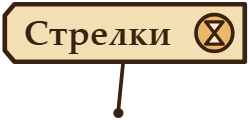
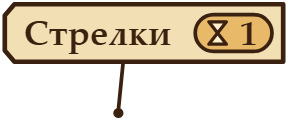
Show hiring on the blueprint as a sepia sketch with the term inside the tag

Changed region(s): [[0.084, 0.0, 1.0, 0.55], [0.392, 0.525, 0.504, 1.0], [0.0, 0.0, 0.084, 0.55]]

diff --git a/web/js/panel.js b/web/js/panel.js
@@ -155,12 +155,11 @@ export function makePanel(root, M, data, art, blueprint, flags, cards = {}) {
             crew.glow.phases.forEach((ph, i) => ph.SetVisible(crew.phase === i + 1));
         }, art.crew_area.step_ms);
         crew.empty = lay(`crew_${ca.group}_empty`);
-        // a hire on its way: the red hatching of what is being built over the places, the tag with an hourglass, the turns in red beside its leader
-        crew.build = lay(`crew_${ca.group}_build`);
+        // a hire on its way, in the drawing's own means: the ordered kind sketched at the places (sepia over a light cut-out, not inked yet) when
+        // nobody stands there, and the tag with an hourglass and the turns left in its ring
+        crew.sketches = {};
+        for (const key of Object.keys(group.options)) if (art.places[`crew_${ca.group}_${key}_sketch`]) crew.sketches[key] = lay(`crew_${ca.group}_${key}_sketch`);
         crew.tags = {plus: lay(`crew_${ca.group}_tag_plus`), swap: lay(`crew_${ca.group}_tag_swap`), wait: lay(`crew_${ca.group}_tag_wait`)};
-        const tagAt = place(`crew_${ca.group}_tag_plus`);
-        crew.turns = text(area, 'crew_turns', 'text_ink_big', (tagAt[0] + 84) * scale - ax, (tagAt[1] + 40) * scale - ay, 150, 26, '');
-        crew.turns.SetPassive();
         // what shows under the mouse, in one holder: the frames and the lighter tag of the state
         crew.hover = make(area, 'hover', 'hover_holder');
         size(crew.hover, cbox[2] * scale, cbox[3] * scale);
@@ -804,8 +803,8 @@ function refresh(view, M) {
     }
     if (view.crewArea) {
         // The place is there from the moment its building stands; with the building gone the place and its choice go too. What stands is in ink; an
-        // order waits for the turn: the red hatching of a thing being built over the places, the ordered kind pale under it when nobody stands there
-        // (a crew that stands stays in ink until the turn replaces it), the tag with an hourglass and the turns beside it.
+        // order waits for the turn: the ordered kind as a sketch at the places when nobody stands there (a crew that stands stays in ink until the
+        // turn replaces it, then only the tag tells of the order), the tag with an hourglass and the turns left.
         const c = view.crewArea, shown = M.status(c.building).state === 'built', now = M.crew(c.group), order = M.crew_order(c.group);
         const options = M.crew_options(c.group), standing = options.find(o => o.key === now), ordered = options.find(o => o.key === order);
         const nobody = !standing || standing.empty, coming = ordered && !ordered.empty && nobody ? order : null;
@@ -813,15 +812,10 @@ function refresh(view, M) {
         if (!shown) c.open = false;
         c.pick.SetVisible(shown && c.open);
         c.empty.SetVisible(nobody && !coming);
-        for (const [key, layer] of Object.entries(c.layers)) {
-            layer.SetVisible(key === (nobody ? coming : now));
-            layer.SetImageColour(255, 255, 255, key === coming ? 0xA0 : 255);
-        }
-        c.build.SetVisible(!!ordered);
+        for (const [key, layer] of Object.entries(c.layers)) layer.SetVisible(!nobody && key === now);
+        for (const [key, layer] of Object.entries(c.sketches)) layer.SetVisible(key === coming);
         const tag = ordered ? 'wait' : nobody ? 'plus' : 'swap';
         for (const k of Object.keys(c.tags)) { c.tags[k].SetVisible(k === tag); c.hoverTags[k].SetVisible(k === tag); }
-        c.turns.SetVisible(!!ordered);
-        c.turns.SetStateText(ordered ? 'найм: 1 ход' : '');
         c.glow.SetVisible(M.crew_hint());
         c.area.SetTooltipText(c.open ? '' : ordered ? (ordered.empty ? 'Стрелки сойдут с бортов в начале хода' : `${ordered.name}: в найме, встанут к бортам в начале хода`)
             : nobody ? '' : `${standing.name}: ${standing.unit_card ? standing.unit_card.men + ' у бортов, ' : ''}содержание ${standing.upkeep} за ход`, true);

diff --git a/web/js/gameui.js b/web/js/gameui.js
@@ -45,7 +45,6 @@ const TEXT = {
     text_note: {size: 12, colour: '#8E8A80', valign: 'top'},
     // the green of a building's effect lines in the game's list of effects (EffectList); the shade is a guess, the game's own is not read
     // ink on the parchment, for the turns written on the drawing: a layout the mod does not have yet (tools/crew_ui.py would get it)
-    text_ink_big: {size: 22, colour: '#8E1A08', bold: true, nowrap: true, font: 'header'},      // a note on the drawing in the red of what is being built, read at the page's real scale
     text_ink: {size: 15, colour: '#3B2110', bold: true, nowrap: true, font: 'header'},
     text_green: {size: 12, colour: '#9BD36A', valign: 'top'},
 };

diff --git a/tools/web_art.py b/tools/web_art.py
@@ -946,17 +946,25 @@ def crew_tag(sign="plus", light=False):
     """The tag of the place, on a leader down to the waist: a slip of light parchment in an ink line with the group's name and a sign in a ring.
     plus: nobody yet, the place waits for a choice (as an empty slot of the game); swap: a crew stands, it can be changed."""
     x, y, w, h = CREW_TAG
+    if sign == "wait":
+        w += 24             # room for the turns beside the hourglass
     fill = "#fff0cc" if light else LIGHT
     out = [art.path(f"M{x + 74} {y + h} L{x + 71} {y + h + 30}", CREW_LINE * 0.8),          # the leader down to a place of the waist, clear of Malakai
            art.dot(x + 71, y + h + 32, 3.2),
            art.path(f"M{x + 6} {y} L{x + w} {y} L{x + w} {y + h} L{x + 6} {y + h} L{x} {y + h - 7} L{x} {y + 7} Z", CREW_LINE, art.INK, fill),
            f'<text x="{x + 12}" y="{y + h - 10.5}" font-family="Palatino Linotype, Book Antiqua, Georgia, serif" font-weight="bold" font-size="{CREW_TEXT}" fill="{art.INK}">Стрелки</text>']
     cx, cy, r = x + w - 19, y + h / 2, 11.5
+    if sign == "wait":
+        # a hire on its way: an hourglass and the turns left, in the tag's own ink and letters, in the sign's place (the ring drawn out into a pill)
+        px0, px1 = x + w - 55, x + w - 7
+        out.append(art.path(f"M{px0 + r} {cy - r} L{px1 - r} {cy - r} A {r} {r} 0 0 1 {px1 - r} {cy + r} L{px0 + r} {cy + r} A {r} {r} 0 0 1 {px0 + r} {cy - r} Z", CREW_LINE * 0.8, art.INK, "#e9b96a"))
+        hx = px0 + 14
+        out.append(art.path(f"M{hx - 5.5} {cy - 7} L{hx + 5.5} {cy - 7} L{hx - 5.5} {cy + 7} L{hx + 5.5} {cy + 7} Z", CREW_LINE * 0.7, art.INK, "#fff0cc"))
+        out.append(f'<text x="{px1 - 20}" y="{y + h - 10.5}" font-family="Palatino Linotype, Book Antiqua, Georgia, serif" font-weight="bold" font-size="{CREW_TEXT}" fill="{art.INK}">1</text>')
+        return out
     out.append(art.circle(cx, cy, r, CREW_LINE * 0.8, art.INK, "#e9b96a"))
     if sign == "plus":
         out.append(art.path(f"M{cx - 6.5} {cy} L{cx + 6.5} {cy} M{cx} {cy - 6.5} L{cx} {cy + 6.5}", CREW_LINE))
-    elif sign == "wait":        # an hourglass: a hire is on its way
-        out.append(art.path(f"M{cx - 5.5} {cy - 7} L{cx + 5.5} {cy - 7} L{cx - 5.5} {cy + 7} L{cx + 5.5} {cy + 7} Z", CREW_LINE * 0.7, art.INK, "#fff0cc"))
     else:       # two arrows, one each way: change
         out.append(art.path(f"M{cx - 6.5} {cy - 3} L{cx + 5.5} {cy - 3} M{cx + 2} {cy - 6.5} L{cx + 6} {cy - 3} "
                             f"M{cx + 6.5} {cy + 3.5} L{cx - 5.5} {cy + 3.5} M{cx - 2} {cy + 7} L{cx - 6} {cy + 3.5}", CREW_LINE * 0.75))
@@ -996,6 +1004,62 @@ def crew_glow(out_prefix="crew_glow"):
     return {"box": [x - pad, y - pad, w + 2 * pad, h + 2 * pad], "phases": phases}
 
 
+SEPIA = art.INK_SOFT            # the soft brown ink of the drawing's own thin lines and shadows
+
+
+def crew_sketch(kind, variant="c"):
+    """A crew that is hired but not aboard yet, as a sketch at its places (build/web/shots/crew_hiring_variants.png):
+    a: the kind's outline in pencil, no fills (the page's pencil of what is not built, its lines made firm enough for the page's real scale);
+    b: the ink figures half see-through;
+    c, the page's: the kind's outline in sepia over a light cut-out, as the empty places are cut out, with a few slanted sepia strokes across: a
+    figure drawn in but not inked yet."""
+    figures = [g for x, y in CREW_PLACES for g in crew_figure(kind, x, y + 2)]
+    if variant == "b":
+        return [f'<g filter="url(#ink)" opacity="0.5">{"".join(figures)}</g>']
+    import re
+    text = "".join(figures)
+    line = PENCIL if variant == "a" else SEPIA
+    text = re.sub(r'stroke="#[0-9a-fA-F]{6}"', f'stroke="{line}"', text)
+    text = re.sub(r'fill="#[0-9a-fA-F]{6}"', 'fill="none"' if variant == "a" else f'fill="{LIGHT}"', text)
+    text = re.sub(r'stroke-width="([0-9.]+)"', lambda m: f'stroke-width="{max(1.5, float(m.group(1)) * 0.85):.2f}"', text)
+    if variant == "a":
+        return [f'<g opacity="0.95">{text}</g>']
+    out = [text]
+    for x, y in CREW_PLACES:        # three slanted strokes over the body: the shading of a sketch
+        for dx in (-5, 0, 5):
+            out.append(art.path(f"M{x + dx - 3:.1f} {y + 1:.1f} L{x + dx + 3:.1f} {y - 10:.1f}", 0.9, SEPIA, op=0.75))
+    return out
+
+
+def crew_hiring_variants():
+    """build/web/shots/crew_hiring_variants.png: the three looks of a hired crew that is not aboard yet, at the page's scale 1 and at the user's 0.6."""
+    from PIL import Image, ImageDraw, ImageFont
+    S, user = art.SCALE, 0.6
+    base = Image.open(OUT / "blueprint_base.png").convert("RGBA")
+    box = (round(230 * S), round(320 * S), round(700 * S), round(500 * S))
+    w, h = round(art.DRAW_W * S), round(art.DRAW_H * S)
+    place = json.loads((OUT / "layers.json").read_text(encoding="utf-8"))["places"]["malakai_near"]
+    mal = Image.open(OUT / "malakai_near.png").convert("RGBA").resize((round(place[2] * S), round(place[3] * S)))
+    cells = [("А: карандашный контур типа", "a"), ("Б: полупрозрачные чернила", "b"), ("В (выбран): контур сепией по светлому вырезу и лёгкая штриховка", "c")]
+    one = 1.029 / S
+    cw, ch = round((box[2] - box[0]) * one), round((box[3] - box[1]) * one)
+    font = ImageFont.truetype("arial.ttf", 15)
+    sheet = Image.new("RGB", (cw + round(cw * user) + 40, (ch + 30) * 3 + 10), (20, 18, 15))
+    d = ImageDraw.Draw(sheet)
+    for i, (title, variant) in enumerate(cells):
+        im = base.copy()
+        im.alpha_composite(art.paint(f"web_crew_hiring_{i}", art.svg_page(crew_sketch("pirates", variant) + crew_tag("wait"), filtered=False), w, h))
+        im.alpha_composite(mal, (round(place[0] * S), round(place[1] * S)))
+        crop = im.crop(box).convert("RGB")
+        y = 10 + i * (ch + 30)
+        d.text((10, y), title + "   |   масштаб 1 и 0.6", fill=(235, 189, 124), font=font)
+        sheet.paste(crop.resize((cw, ch), Image.LANCZOS), (10, y + 22))
+        sheet.paste(crop.resize((round(cw * user), round(ch * user)), Image.LANCZOS), (cw + 26, y + 22))
+    target = REPO / "build" / "web" / "shots"
+    target.mkdir(parents=True, exist_ok=True)
+    sheet.save(target / "crew_hiring_variants.png")
+
+
 def crew_area(places):
     """Layers of the riflemen's place: the empty figures, the tag in its two states and lit under the mouse, the frames shown under the mouse, the warm
     pulse of the tag, and the crew of each kind in ink."""
@@ -1008,19 +1072,15 @@ def crew_area(places):
     layer_plain("crew_rifles_tag_swap_hover", crew_tag("swap", True), places)
     layer_plain("crew_rifles_tag_wait", crew_tag("wait"), places)
     layer_plain("crew_rifles_tag_wait_hover", crew_tag("wait", True), places)
-    # a hire on its way: the red hatching the drawing puts over what is being built (build_of), over the two rows of places
-    hatch = []
-    for group in (CREW_PLACES[:2], CREW_PLACES[2:]):
-        x0, x1 = min(x for x, _ in group) - 14, max(x for x, _ in group) + 14
-        y0, y1 = min(y for _, y in group) - 28, max(y for _, y in group) + 4
-        hatch.append(art.hatch([(x0, y0), (x1, y0), (x1, y1), (x0, y1)], 45, 6.5, 1.5, CHALK, 0.6))
-    layer_plain("crew_rifles_build", hatch, places)
+    # a hire on its way: the ordered kind as a sketch at the places (crew_sketch), no chalk
+    for kind in ("pirates", "quarrellers", "thunderers", "rakers", "torpedoes"):
+        layer_plain(f"crew_rifles_{kind}_sketch", crew_sketch(kind), places)
     for kind in ("pirates", "quarrellers", "thunderers", "rakers", "torpedoes"):
         layer("crew_rifles_" + kind, [g for x, y in CREW_PLACES for g in crew_figure(kind, x, y + 2)], places)
     glow = crew_glow()
     tx, ty, tw, th = CREW_TAG
     x0, y0 = min(min(x for x, _ in CREW_PLACES) - 20, tx - 4), min(min(y for _, y in CREW_PLACES) - 36, ty - 4)
-    x1, y1 = max(max(x for x, _ in CREW_PLACES) + 20, tx + tw + 4), max(y for _, y in CREW_PLACES) + 10
+    x1, y1 = max(max(x for x, _ in CREW_PLACES) + 20, tx + tw + 24 + 4), max(y for _, y in CREW_PLACES) + 10
     return {"area": [x0, y0, x1 - x0, y1 - y0], "glow": glow, "step_ms": 110}
 
 
@@ -1129,6 +1189,7 @@ def main():
     crew = crew_area(places)
     (OUT / "layers.json").write_text(json.dumps(json.loads((OUT / "layers.json").read_text(encoding="utf-8")) | {"places": places, "parts": parts, "malakai_side": side, "crew_area": crew}, indent=1), encoding="utf-8")
     crew_area_variants()
+    crew_hiring_variants()
     for f in sorted(OUT.glob("*.png")):
         print(f.name, f.stat().st_size)
 
